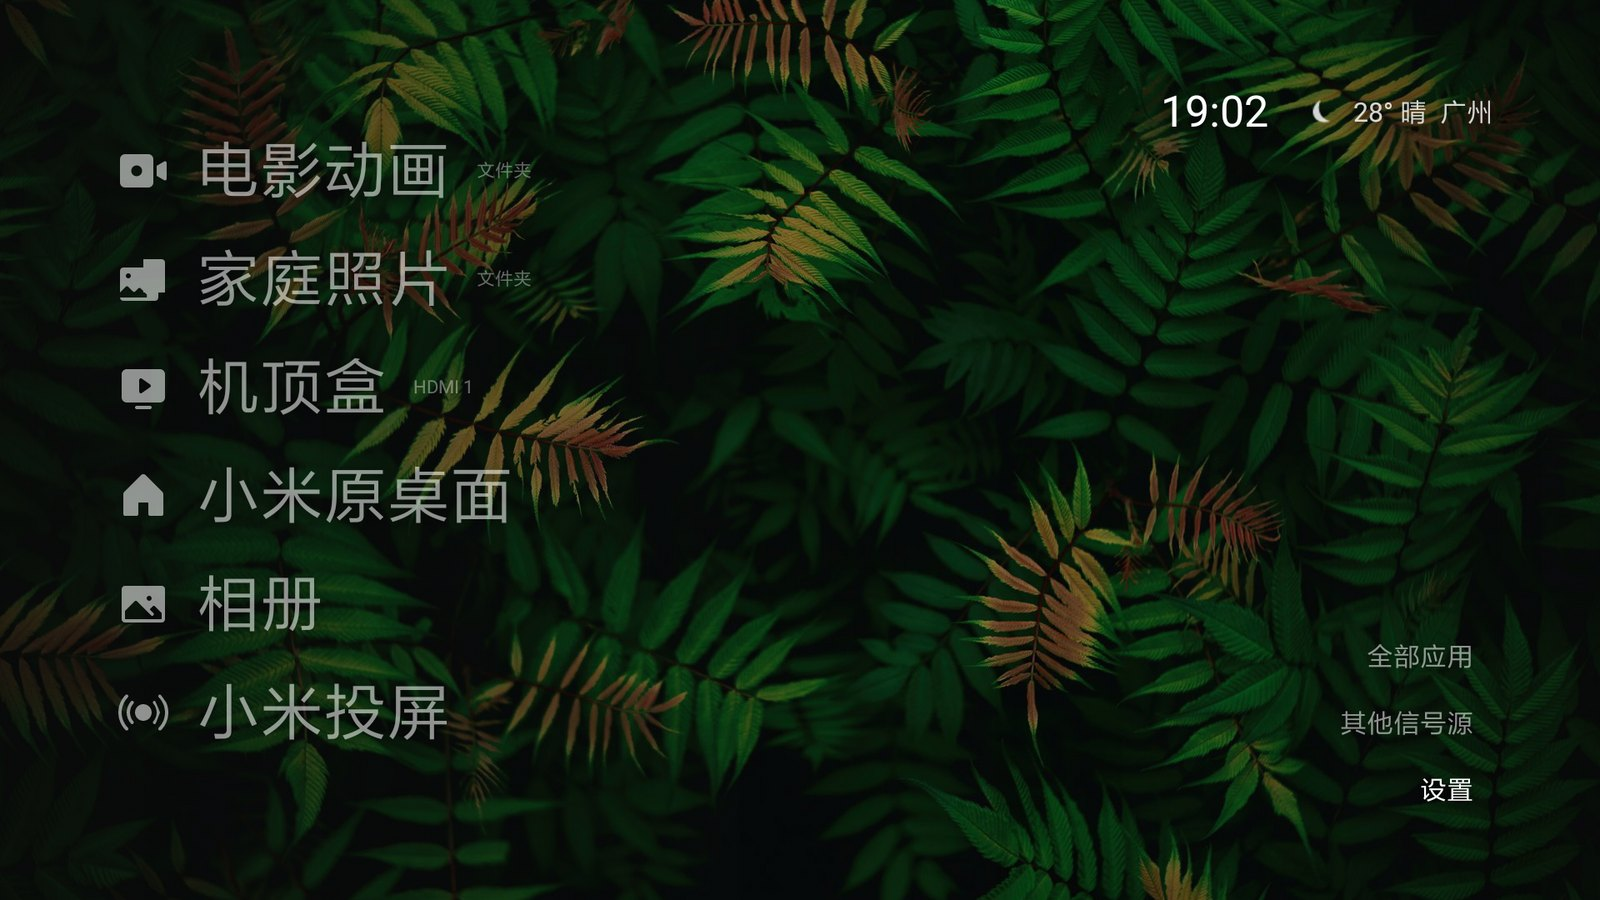
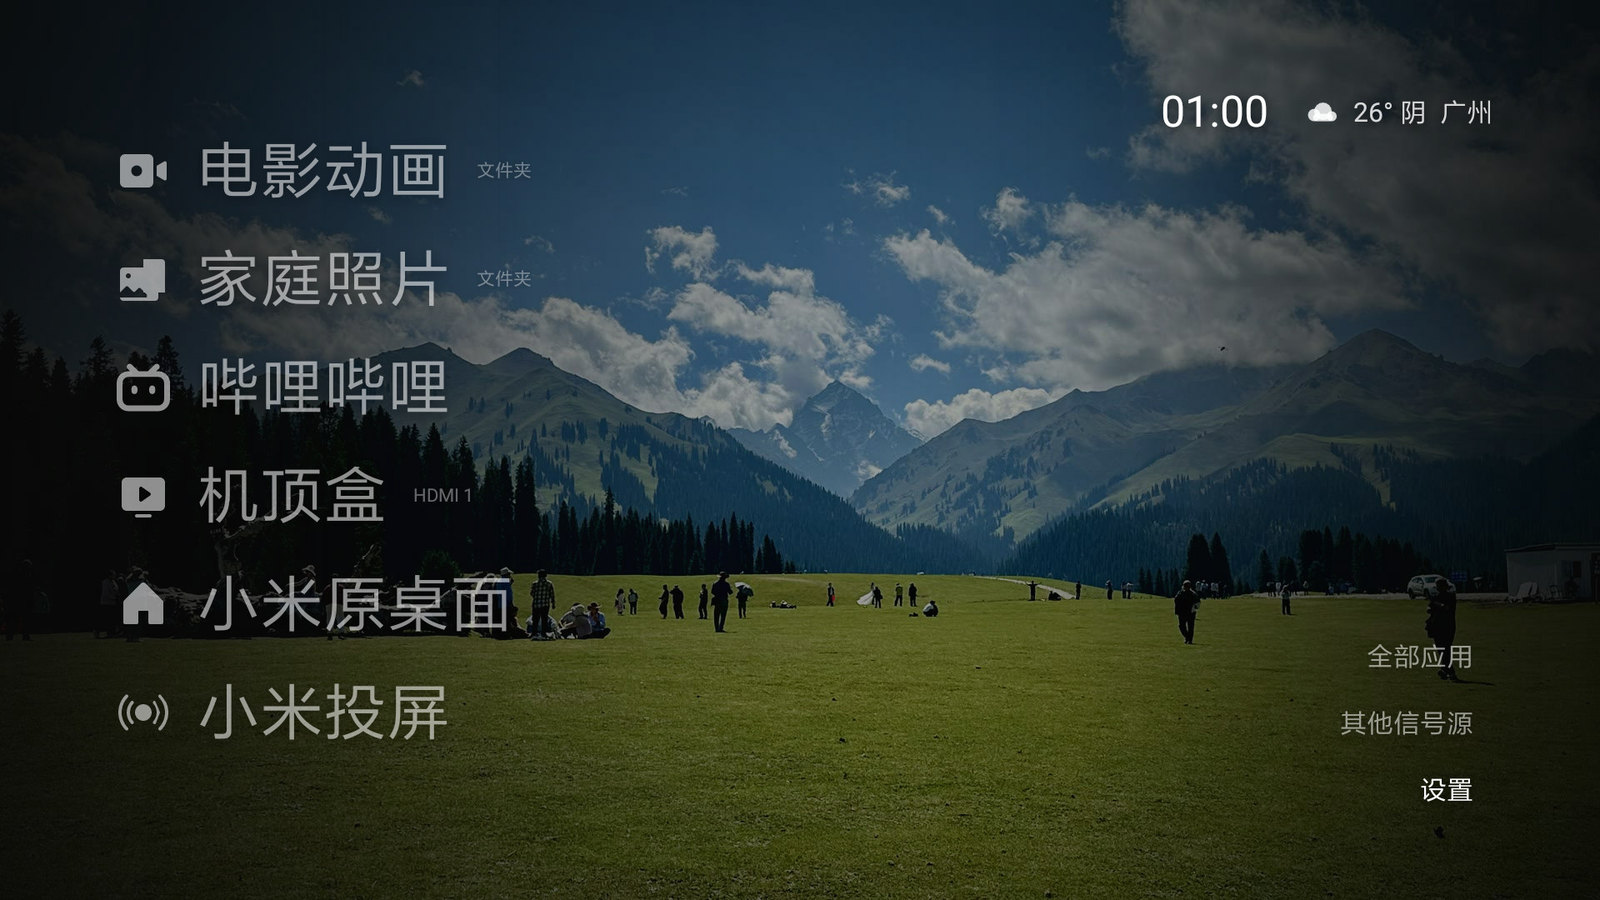
docs(readme): 换用当前真机截图，补入口详情图
- 01-home：壁纸换成内置「草原与雪岭」，入口为当前真机状态；截图说明同步改写（原写「热带绿叶」）
- 新增 09-entry-detail：设置 → 首页内容 → 入口详情，放在「背景与设置」一节
- intro.gif 按新视频重出（720x405 / 10fps / 80 帧 / 1.1MB）

diff --git a/README.md b/README.md
@@ -113,6 +113,8 @@
 
 ![背景设置](screenshots/07-background.jpg)
 
+![首页内容：入口详情，右侧是首页预览](screenshots/09-entry-detail.jpg)
+
 ![设置中心](screenshots/06-settings.jpg)
 
 ---
@@ -354,7 +356,7 @@ export JKTV_KEY_PASSWORD=******
 
 ## 截图说明
 
-文中截图在真机（MiTV4-ANSM0 / Android 6.0.1）上抓取，壁纸用的是内置的「热带绿叶」。图里出现的目录与文件是临时造的演示素材：`Sample Photos` 里是同一批自拍照片，`Sample Videos` 是这些照片生成的五秒推拉镜头。不含第三方影视内容、真人肖像或任何个人文件。
+文中截图在真机（MiTV4-ANSM0 / Android 6.0.1）上抓取，壁纸用的是内置的「草原与雪岭」（`author-05`）。图里出现的目录与文件是临时造的演示素材：`Sample Photos` 里是同一批自拍照片，`Sample Videos` 是这些照片生成的五秒推拉镜头。不含第三方影视内容、真人肖像或任何个人文件。
 
 截图里的入口名（`电影动画`、`家庭照片`、`机顶盒`）是演示时自己起的；没改过名的入口按存储卷自动命名（`移动存储 1`、`移动存储 2`、`内部存储`），每个人的机器上不一样。嫌自动名不好看可以改：**设置 → 首页内容 → 选中入口 → 重命名**，名字里带「电影／视频」或「照片／相册」时左侧图标会跟着换成摄像机或照片，带「游戏」是手柄、其余 HDMI 是显示器。改过头了还能「恢复自动名称」。
 
